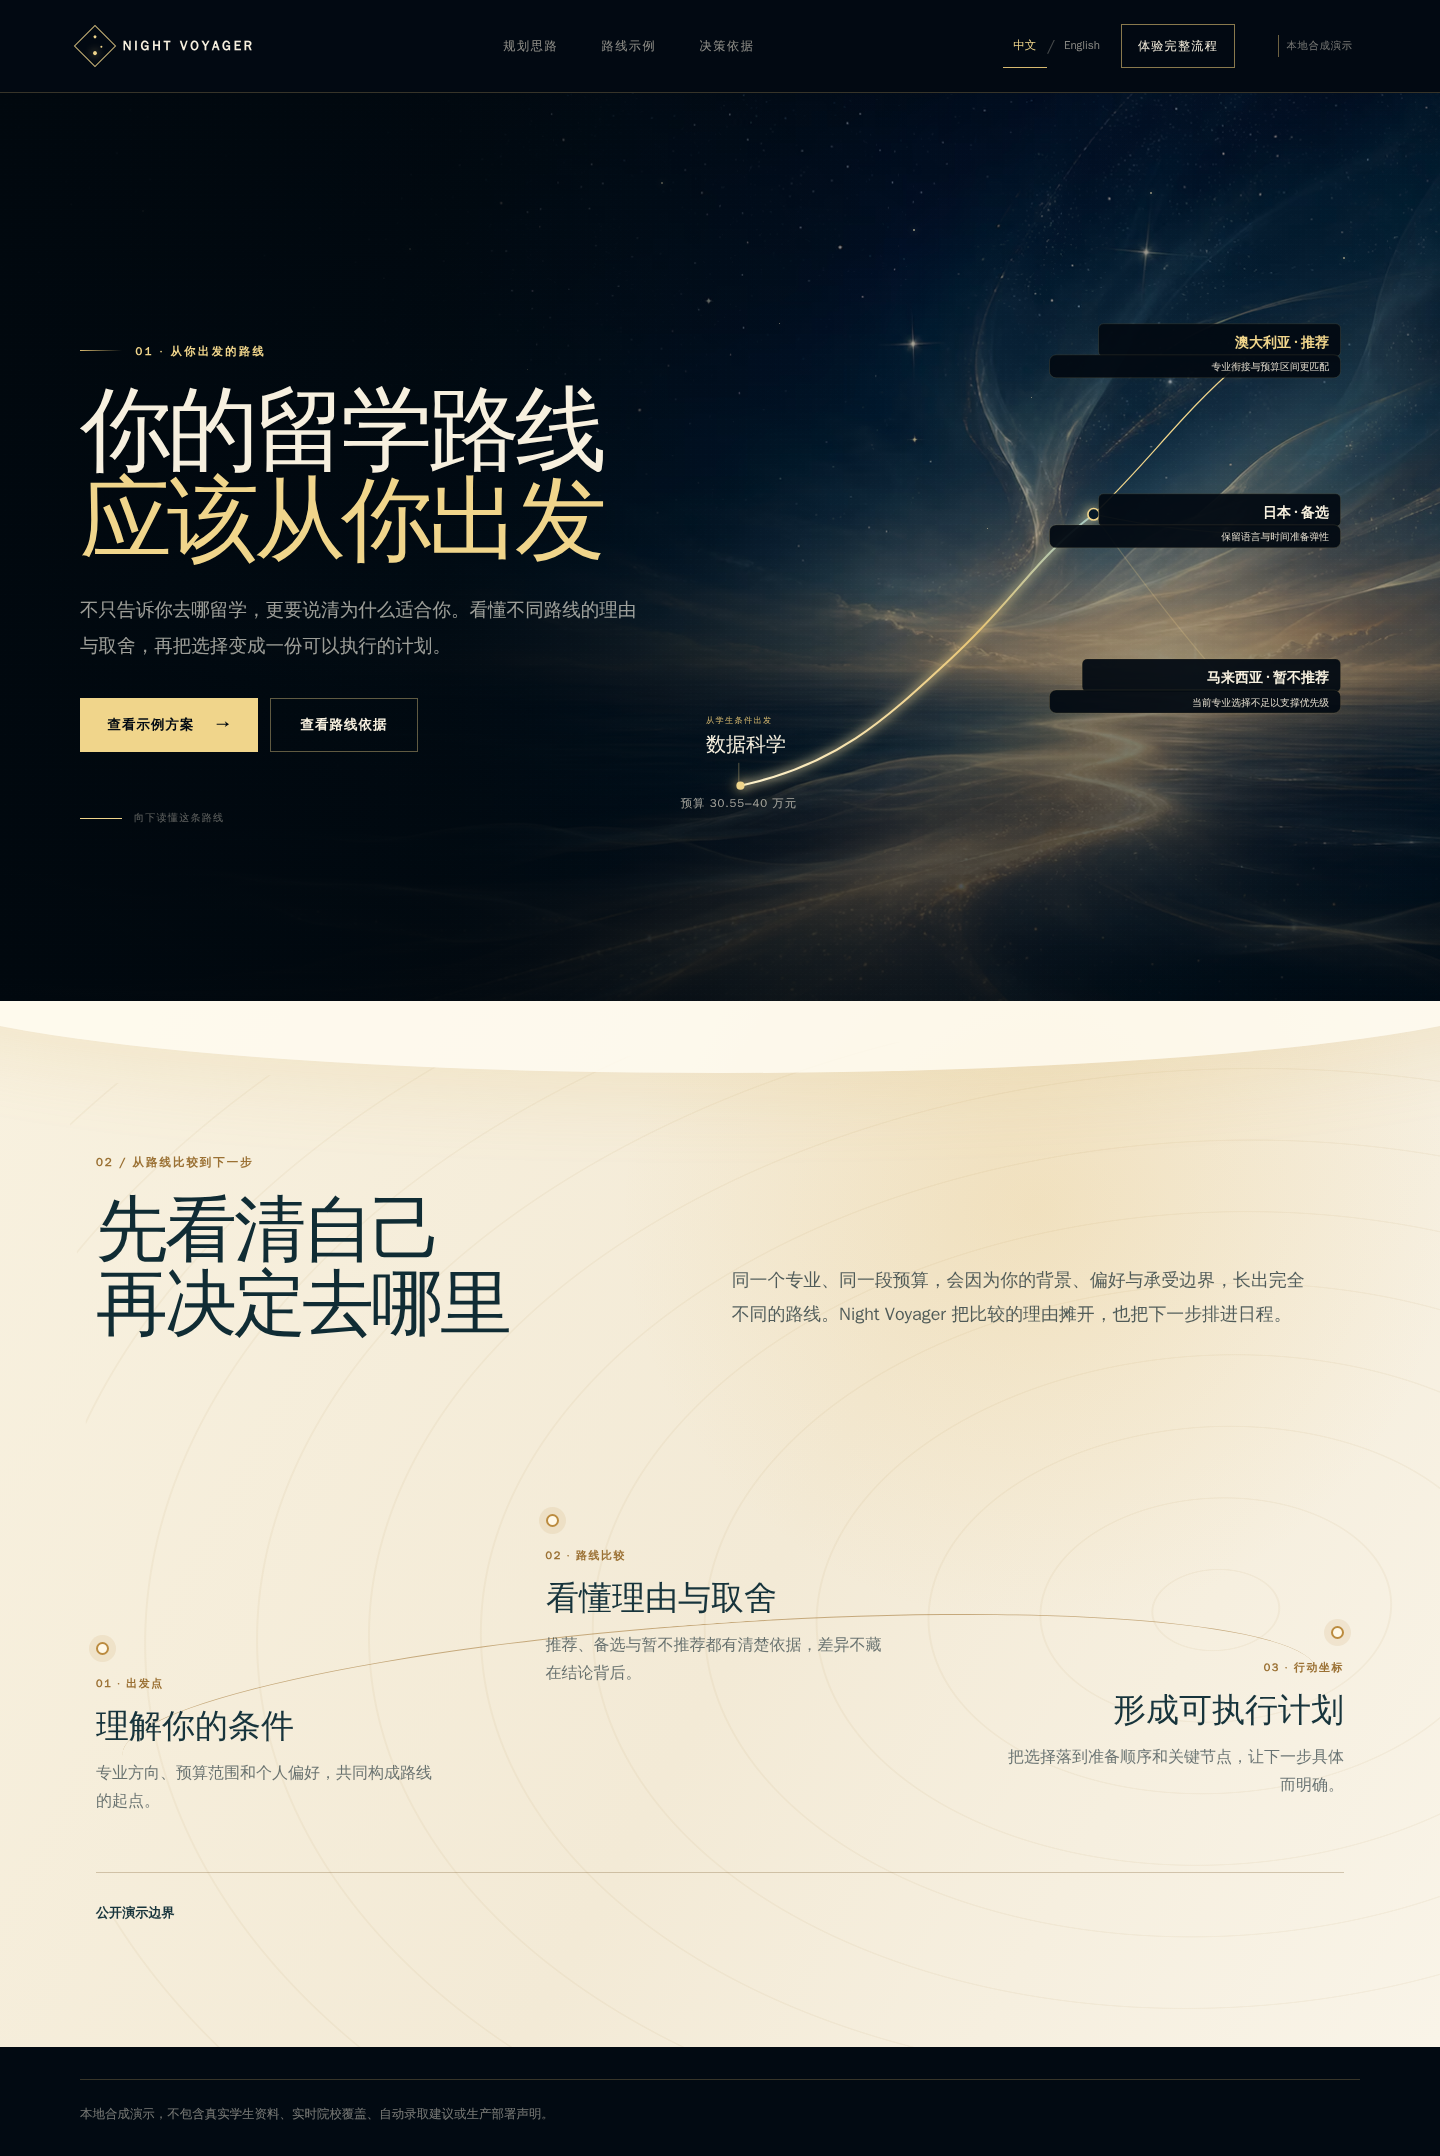
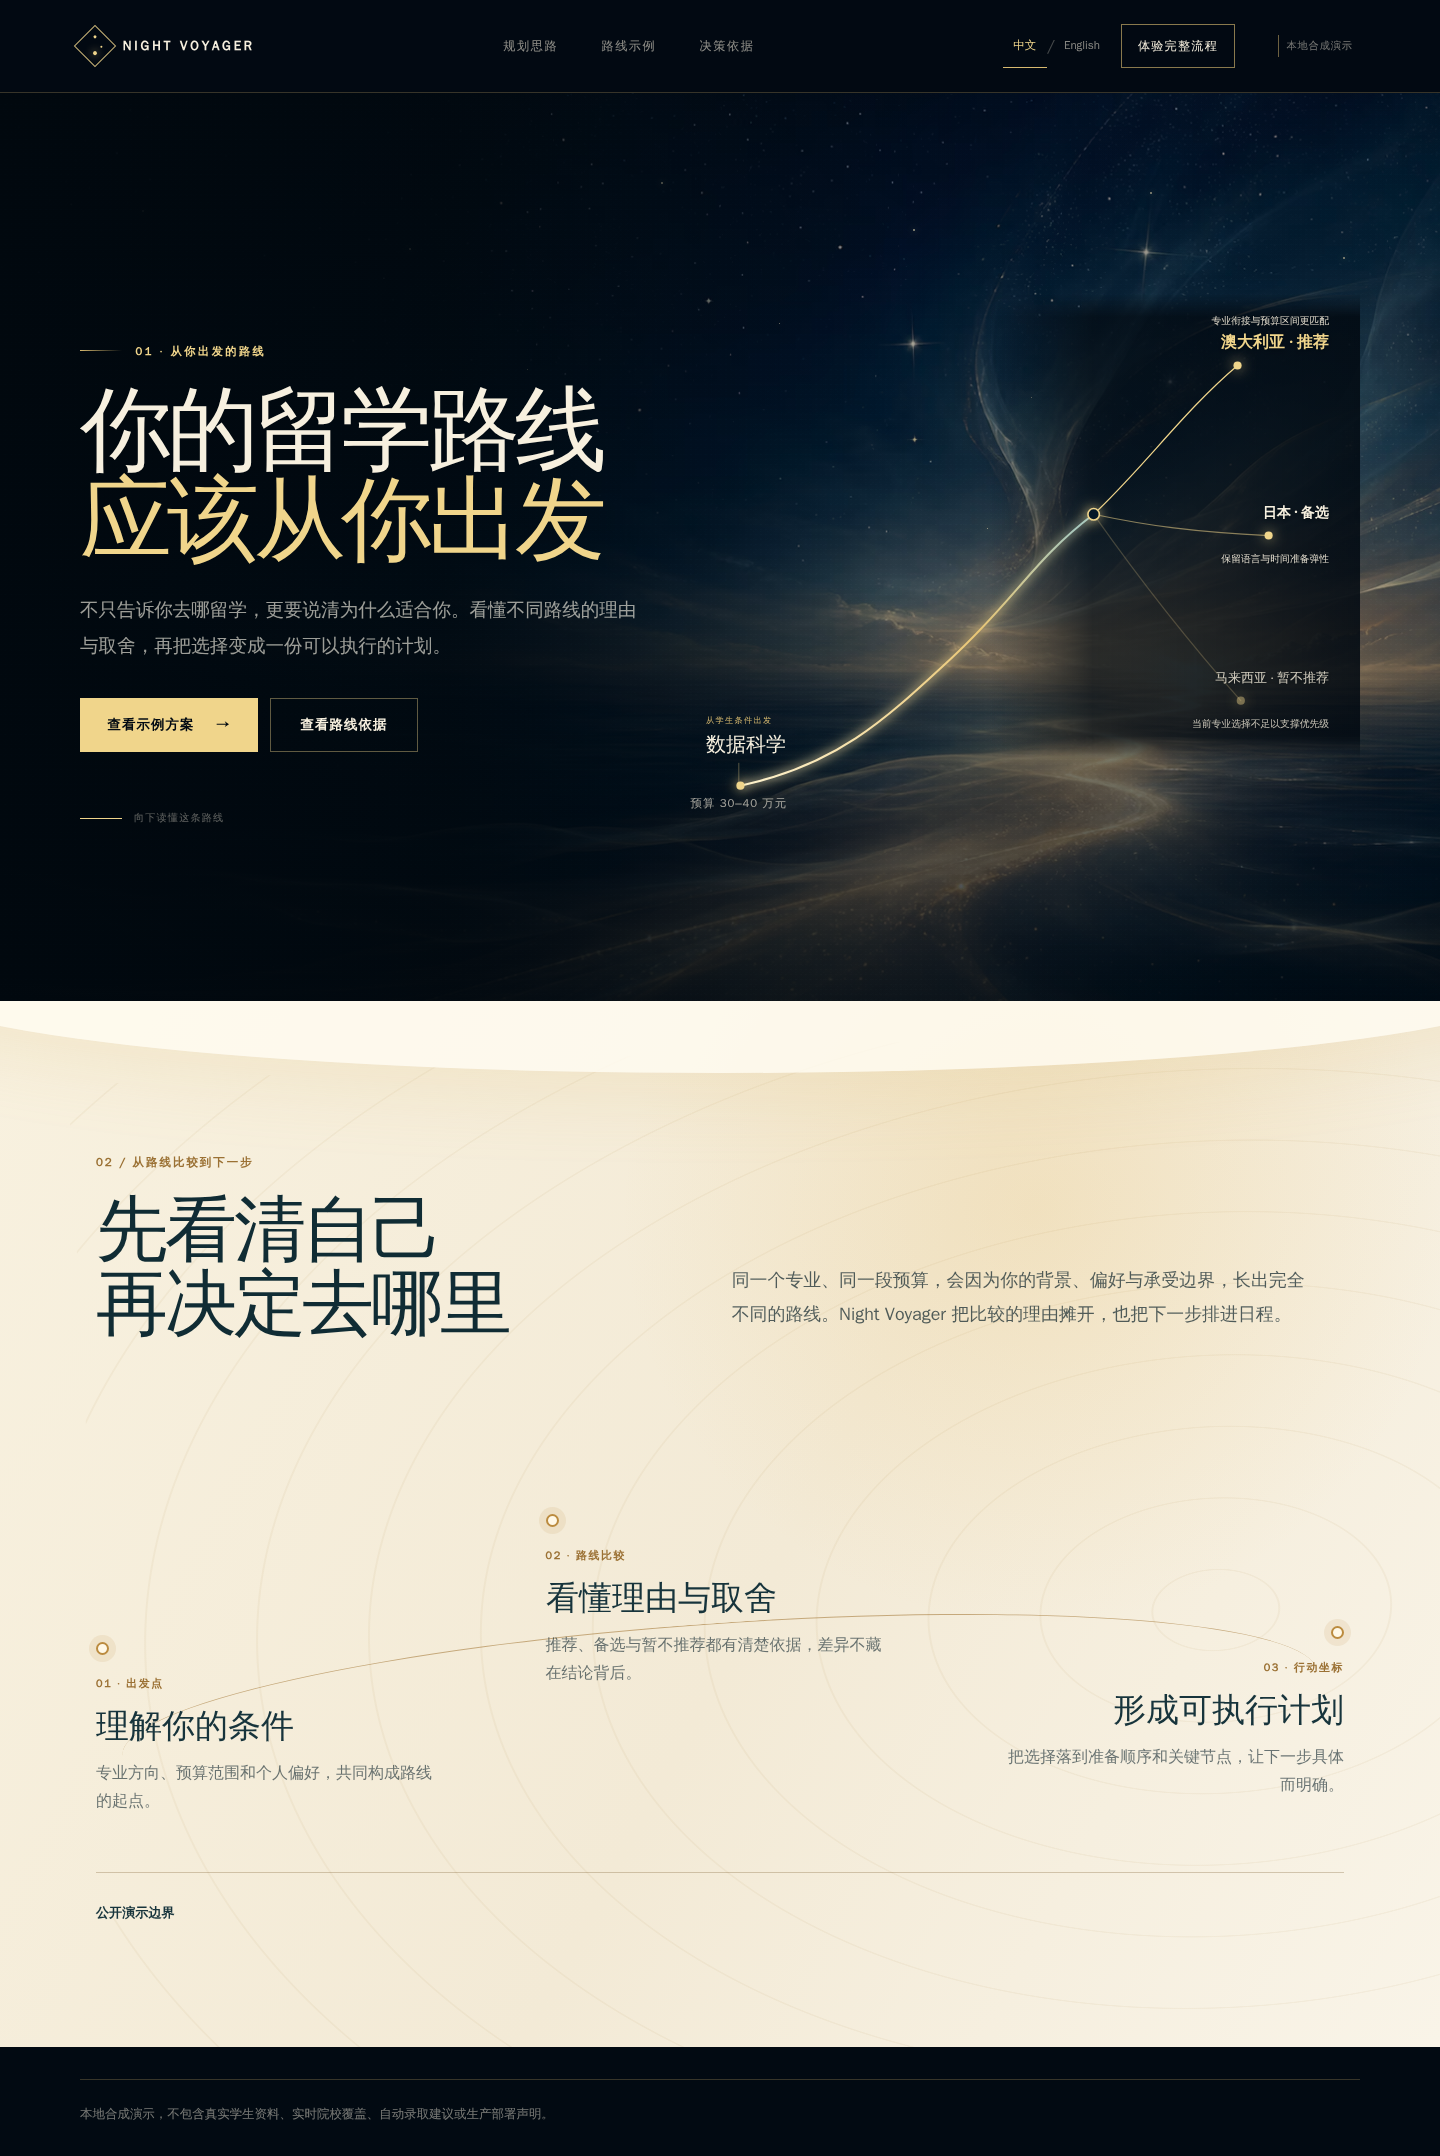
fix: polish portfolio route presentation

Changed region(s): [[0.6875, 0.1243, 0.9688, 0.3729]]

diff --git a/web/components/presentation/PortfolioRouteAtlas.tsx b/web/components/presentation/PortfolioRouteAtlas.tsx
@@ -8,22 +8,19 @@ const DESTINATIONS = {
     x: 770,
     y: 118,
     labelY: 95,
-    labelVeilX: 600,
-    reasonY: 124,
+    reasonY: 67,
   },
   japan: {
     x: 808,
     y: 326,
     labelY: 303,
-    labelVeilX: 600,
-    reasonY: 332,
+    reasonY: 358,
   },
   malaysia: {
     x: 774,
     y: 528,
     labelY: 505,
-    labelVeilX: 580,
-    reasonY: 534,
+    reasonY: 560,
   },
 } as const;
 
@@ -69,7 +66,49 @@ export function PortfolioRouteAtlas() {
               <feMergeNode in="SourceGraphic" />
             </feMerge>
           </filter>
+          <linearGradient
+            id="portfolio-route-dark-field-gradient"
+            x1="0"
+            y1="0"
+            x2="1"
+            y2="0"
+          >
+            <stop offset="0%" stopColor="#020a12" stopOpacity="0" />
+            <stop offset="28%" stopColor="#020a12" stopOpacity=".72" />
+            <stop offset="100%" stopColor="#020a12" stopOpacity=".88" />
+          </linearGradient>
+          <linearGradient
+            id="portfolio-route-dark-field-feather"
+            x1="0"
+            y1="0"
+            x2="0"
+            y2="1"
+          >
+            <stop offset="0%" stopColor="black" />
+            <stop offset="5%" stopColor="white" />
+            <stop offset="95%" stopColor="white" />
+            <stop offset="100%" stopColor="black" />
+          </linearGradient>
+          <mask id="portfolio-route-dark-field-mask">
+            <rect
+              x="465"
+              y="30"
+              width="455"
+              height="570"
+              fill="url(#portfolio-route-dark-field-feather)"
+            />
+          </mask>
         </defs>
+
+        <rect
+          className="portfolio-route-dark-field"
+          x="465"
+          y="30"
+          width="455"
+          height="570"
+          mask="url(#portfolio-route-dark-field-mask)"
+          aria-hidden="true"
+        />
 
         <g className="portfolio-atlas-origin">
           <text x="120" y="555" className="portfolio-svg-kicker">
@@ -136,22 +175,6 @@ export function PortfolioRouteAtlas() {
               data-emphasis={stop.emphasis}
             >
               <circle cx={destination.x} cy={destination.y} r="5" />
-              <rect
-                x={destination.labelVeilX}
-                y={destination.labelY - 28}
-                width={896 - destination.labelVeilX}
-                height="40"
-                rx="6"
-                className="portfolio-route-copy-veil portfolio-route-label-veil"
-              />
-              <rect
-                x="540"
-                y={destination.reasonY - 19}
-                width="356"
-                height="28"
-                rx="8"
-                className="portfolio-route-copy-veil portfolio-route-reason-veil"
-              />
               <text
                 x="882"
                 y={destination.labelY}

diff --git a/web/e2e/portfolio-design-review.spec.ts b/web/e2e/portfolio-design-review.spec.ts
@@ -81,15 +81,6 @@ async function renderedTextContrast(
             : element.matches("em")
               ? "status"
               : "reason";
-          const supportingVeil = element
-            .closest(".portfolio-route-destination")
-            ?.querySelector(
-              role === "label"
-                ? ".portfolio-route-label-veil"
-                : ".portfolio-route-reason-veil",
-            );
-          const supportingVeilRect = supportingVeil?.getBoundingClientRect();
-
           return {
             alpha: (values[3] ? Number(values[3]) : 1) * inheritedOpacity,
             foreground: values.slice(0, 3).map(Number),
@@ -98,14 +89,6 @@ async function renderedTextContrast(
             width: rect.width,
             x: rect.left + window.scrollX,
             y: rect.top + window.scrollY,
-            supportingVeil: supportingVeilRect
-              ? {
-                  height: supportingVeilRect.height,
-                  width: supportingVeilRect.width,
-                  x: supportingVeilRect.left + window.scrollX,
-                  y: supportingVeilRect.top + window.scrollY,
-                }
-              : null,
           };
         })
         .filter((target) => target !== null),
@@ -208,7 +191,6 @@ async function renderedTextContrast(
             x: target.x,
             y: target.y,
           },
-          supportingVeil: target.supportingVeil,
         };
       });
     },
@@ -239,17 +221,40 @@ async function expectReadableRouteText(
         `${measurement.targetBounds.y.toFixed(0)},` +
         `${measurement.targetBounds.width.toFixed(0)}x` +
         `${measurement.targetBounds.height.toFixed(0)} ` +
-        `veil=${
-          measurement.supportingVeil
-            ? `${measurement.supportingVeil.x.toFixed(0)},` +
-              `${measurement.supportingVeil.y.toFixed(0)},` +
-              `${measurement.supportingVeil.width.toFixed(0)}x` +
-              `${measurement.supportingVeil.height.toFixed(0)}`
-            : "none"
-        } ` +
         `samples=${measurement.samples}`,
     ).toBeGreaterThanOrEqual(4.5);
   }
+}
+
+async function expectDesktopRouteHierarchy(page: Page) {
+  const hierarchy = await page
+    .locator(".portfolio-route-destination")
+    .evaluateAll((destinations) =>
+      destinations.map((destination) => {
+        const label = destination.querySelector(".portfolio-svg-route-label");
+        const route = destination.getAttribute("data-emphasis");
+        if (!label || !route) return null;
+        const style = getComputedStyle(label);
+        return {
+          fill: style.fill,
+          fontSize: Number.parseFloat(style.fontSize),
+          fontWeight: Number.parseInt(style.fontWeight, 10),
+          route,
+        };
+      }).filter((value) => value !== null),
+    );
+  const primary = hierarchy.find(({ route }) => route === "primary");
+  const secondary = hierarchy.find(({ route }) => route === "secondary");
+  const muted = hierarchy.find(({ route }) => route === "muted");
+
+  expect(primary).toBeDefined();
+  expect(secondary).toBeDefined();
+  expect(muted).toBeDefined();
+  expect(primary?.fontSize).toBeGreaterThan(secondary?.fontSize ?? Number.POSITIVE_INFINITY);
+  expect(primary?.fontWeight).toBeGreaterThan(secondary?.fontWeight ?? Number.POSITIVE_INFINITY);
+  expect(secondary?.fontWeight).toBeGreaterThan(muted?.fontWeight ?? Number.POSITIVE_INFINITY);
+  expect(primary?.fill).not.toBe(secondary?.fill);
+  expect(muted?.fill).not.toBe(secondary?.fill);
 }
 
 test("keeps the primary portfolio action readable in both locales", async ({ page }) => {
@@ -294,6 +299,14 @@ test("keeps every desktop route label and reason readable over the rendered back
       await page.getByRole("button", { name: "English", exact: true }).click();
       await expect(page.locator("html")).toHaveAttribute("lang", "en");
     }
+    await expect(page.locator(".portfolio-route-dark-field")).toHaveCount(1);
+    await expect(page.locator(".portfolio-route-copy-veil")).toHaveCount(0);
+    await expect(page.locator(".portfolio-route-label-veil")).toHaveCount(0);
+    await expect(page.locator(".portfolio-route-reason-veil")).toHaveCount(0);
+    await expect(
+      page.locator(".portfolio-route-destination rect"),
+    ).toHaveCount(0);
+    await expectDesktopRouteHierarchy(page);
     await expectReadableRouteText(
       page,
       DESKTOP_ROUTE_TEXT,

diff --git a/web/app/styles.css b/web/app/styles.css
@@ -1359,6 +1359,10 @@ body:has(.portfolio-night) {
   filter: blur(7px);
 }
 
+.portfolio-route-dark-field {
+  fill: url("#portfolio-route-dark-field-gradient");
+}
+
 .portfolio-route-path {
   fill: none;
   stroke: rgba(240, 213, 139, .54);
@@ -1407,22 +1411,30 @@ body:has(.portfolio-night) {
   fill: var(--portfolio-ivory);
   font-family: var(--editorial);
   font-size: 17px;
-  font-weight: 700;
-}
-
-.portfolio-route-copy-veil {
-  fill: rgba(2, 10, 18, .94);
-  stroke: rgba(215, 185, 111, .16);
-  stroke-width: 1;
+  font-weight: 600;
+  filter: drop-shadow(0 2px 3px rgba(1, 7, 13, .72));
 }
 
 .portfolio-svg-route-reason {
   fill: rgba(247, 240, 223, .9);
   font-size: 12px;
+  filter: drop-shadow(0 1px 2px rgba(1, 7, 13, .78));
 }
 
 .portfolio-route-destination[data-emphasis="primary"] .portfolio-svg-route-label {
   fill: var(--portfolio-gold-bright);
+  font-size: 19px;
+  font-weight: 700;
+}
+
+.portfolio-route-destination[data-emphasis="muted"] .portfolio-svg-route-label {
+  fill: rgba(232, 225, 208, .88);
+  font-size: 16px;
+  font-weight: 500;
+}
+
+.portfolio-route-destination[data-emphasis="muted"] .portfolio-svg-route-reason {
+  fill: rgba(238, 231, 214, .82);
 }
 
 .portfolio-route-destination[data-emphasis="muted"] circle {

diff --git a/web/tests/unit/portfolio-route-contract.test.ts b/web/tests/unit/portfolio-route-contract.test.ts
@@ -1,6 +1,7 @@
 import { describe, expect, it } from "vitest";
 
 import { en, zhCN } from "../../lib/presentation/catalog";
+import { formatCnyRange } from "../../lib/presentation/format";
 import { PORTFOLIO_ROUTE_STOPS } from "../../lib/presentation/portfolio";
 
 describe("portfolio route contract", () => {
@@ -25,11 +26,30 @@ describe("portfolio route contract", () => {
       }
     }
 
+    expect(zhCN.rootOriginBudget).toBe("预算 30–40 万元");
     expect(zhCN.rootRouteAtlasDescription).toBe(
-      "学生希望学习数据科学，预算 30.55–40 万元。澳大利亚为推荐路线，日本为备选路线，马来西亚暂不推荐。",
+      "学生希望学习数据科学，预算 30–40 万元。澳大利亚为推荐路线，日本为备选路线，马来西亚暂不推荐。",
     );
-    expect(en.rootRouteAtlasDescription).toMatch(
-      /data science.*CNY 305,500–400,000.*Australia.*Japan.*Malaysia/i,
+    expect(en.rootOriginBudget).toBe("Budget CNY 300,000–400,000");
+    expect(en.rootRouteAtlasDescription).toBe(
+      "The student plans to study data science with a budget of CNY 300,000–400,000. Australia is recommended, Japan is the reserve route, and Malaysia is not recommended at present.",
+    );
+    expect(
+      [
+        zhCN.rootOriginBudget,
+        zhCN.rootRouteAtlasDescription,
+        en.rootOriginBudget,
+        en.rootRouteAtlasDescription,
+      ].join(" "),
+    ).not.toMatch(/30\.55|305,500/);
+  });
+
+  it("keeps governed-flow money formatting exact", () => {
+    expect(formatCnyRange("zh-CN", 30_550_000, 40_000_000, "CNY")).toBe(
+      "¥305,500–400,000",
+    );
+    expect(formatCnyRange("en", 30_550_000, 40_000_000, "CNY")).toBe(
+      "CNY 305,500–400,000",
     );
   });
 });

diff --git a/web/e2e/fact-to-plan.spec.ts b/web/e2e/fact-to-plan.spec.ts
@@ -8,20 +8,24 @@ const workerReadySentinel = process.env.FACT_TO_PLAN_WORKER_READY_SENTINEL;
 const presentationLocale = process.env.PRESENTATION_LOCALE === "en" ? "en" : "zh-CN";
 const updatePortfolioScreenshots = process.env.UPDATE_PORTFOLIO_SCREENSHOTS === "1";
 const portfolioCopy = presentationLocale === "en" ? {
+  budget: "Budget CNY 300,000–400,000",
   heading: "Your study-abroad route should start with you",
   primaryAction: "View the example plan",
   secondaryAction: "View route evidence",
-  routeDescription: "The student plans to study data science with a budget of CNY 305,500–400,000. Australia is recommended, Japan is the reserve route, and Malaysia is not recommended at present.",
+  routeDescription: "The student plans to study data science with a budget of CNY 300,000–400,000. Australia is recommended, Japan is the reserve route, and Malaysia is not recommended at present.",
+  supersededBudget: "305,500",
   routes: [
     ["australia", "Australia", "Recommended"],
     ["japan", "Japan", "Reserve"],
     ["malaysia", "Malaysia", "Not recommended at present"],
   ],
 } : {
+  budget: "预算 30–40 万元",
   heading: "你的留学路线 应该从你出发",
   primaryAction: "查看示例方案",
   secondaryAction: "查看路线依据",
-  routeDescription: "学生希望学习数据科学，预算 30.55–40 万元。澳大利亚为推荐路线，日本为备选路线，马来西亚暂不推荐。",
+  routeDescription: "学生希望学习数据科学，预算 30–40 万元。澳大利亚为推荐路线，日本为备选路线，马来西亚暂不推荐。",
+  supersededBudget: "30.55",
   routes: [
     ["australia", "澳大利亚", "推荐"],
     ["japan", "日本", "备选"],
@@ -90,6 +94,7 @@ async function expectResponsiveSurface(page: Page, requiredVisible: readonly Loc
 }
 
 async function expectPortfolioEntry(page: Page) {
+  await page.setViewportSize({ width: 1440, height: 1000 });
   await expect(
     page.getByRole("heading", { level: 1, name: portfolioCopy.heading }),
   ).toBeVisible();
@@ -102,6 +107,8 @@ async function expectPortfolioEntry(page: Page) {
   await expect(page.locator("#portfolio-atlas-description")).toHaveText(
     portfolioCopy.routeDescription,
   );
+  await expect(page.getByText(portfolioCopy.budget, { exact: true })).toBeVisible();
+  await expect(page.getByRole("main")).not.toContainText(portfolioCopy.supersededBudget);
 
   for (const viewport of [
     { width: 1440, height: 1000 },

diff --git a/web/tests/unit/portfolio-route-atlas.test.tsx b/web/tests/unit/portfolio-route-atlas.test.tsx
@@ -15,9 +15,17 @@ describe("PortfolioRouteAtlas", () => {
     );
 
     const graphic = screen.getByRole("img", { name: "留学路线比较" });
+    expect(container.querySelectorAll(".portfolio-route-copy-veil")).toHaveLength(0);
+    expect(container.querySelectorAll(".portfolio-route-label-veil")).toHaveLength(0);
+    expect(container.querySelectorAll(".portfolio-route-reason-veil")).toHaveLength(0);
+    expect(
+      container.querySelectorAll(".portfolio-route-destination rect"),
+    ).toHaveLength(0);
+    expect(container.querySelector(".portfolio-route-dark-field")).not.toBeNull();
     expect(graphic).toHaveAccessibleDescription(
-      "学生希望学习数据科学，预算 30.55–40 万元。澳大利亚为推荐路线，日本为备选路线，马来西亚暂不推荐。",
+      "学生希望学习数据科学，预算 30–40 万元。澳大利亚为推荐路线，日本为备选路线，马来西亚暂不推荐。",
     );
+    expect(screen.getByText("预算 30–40 万元")).toBeVisible();
     expect(container.querySelectorAll("svg title")).toHaveLength(1);
     expect(container.querySelectorAll("svg desc")).toHaveLength(1);
     expect(container.querySelectorAll("[data-route-stop]")).toHaveLength(6);

diff --git a/web/lib/presentation/catalog.ts b/web/lib/presentation/catalog.ts
@@ -27,9 +27,9 @@ export const zhCN = {
   rootHeaderAction: "体验完整流程",
   rootOriginLabel: "从学生条件出发",
   rootOriginField: "数据科学",
-  rootOriginBudget: "预算 30.55–40 万元",
+  rootOriginBudget: "预算 30–40 万元",
   rootRouteAtlasTitle: "留学路线比较",
-  rootRouteAtlasDescription: "学生希望学习数据科学，预算 30.55–40 万元。澳大利亚为推荐路线，日本为备选路线，马来西亚暂不推荐。",
+  rootRouteAtlasDescription: "学生希望学习数据科学，预算 30–40 万元。澳大利亚为推荐路线，日本为备选路线，马来西亚暂不推荐。",
   rootRouteSummaryLabel: "路线比较摘要",
   rootRouteRecommended: "推荐",
   rootRouteReserve: "备选",
@@ -338,9 +338,9 @@ export const en = {
   rootHeaderAction: "Experience full flow",
   rootOriginLabel: "Starting from the student",
   rootOriginField: "Data science",
-  rootOriginBudget: "Budget CNY 305,500–400,000",
+  rootOriginBudget: "Budget CNY 300,000–400,000",
   rootRouteAtlasTitle: "Study-abroad route comparison",
-  rootRouteAtlasDescription: "The student plans to study data science with a budget of CNY 305,500–400,000. Australia is recommended, Japan is the reserve route, and Malaysia is not recommended at present.",
+  rootRouteAtlasDescription: "The student plans to study data science with a budget of CNY 300,000–400,000. Australia is recommended, Japan is the reserve route, and Malaysia is not recommended at present.",
   rootRouteSummaryLabel: "Route comparison summary",
   rootRouteRecommended: "Recommended",
   rootRouteReserve: "Reserve",